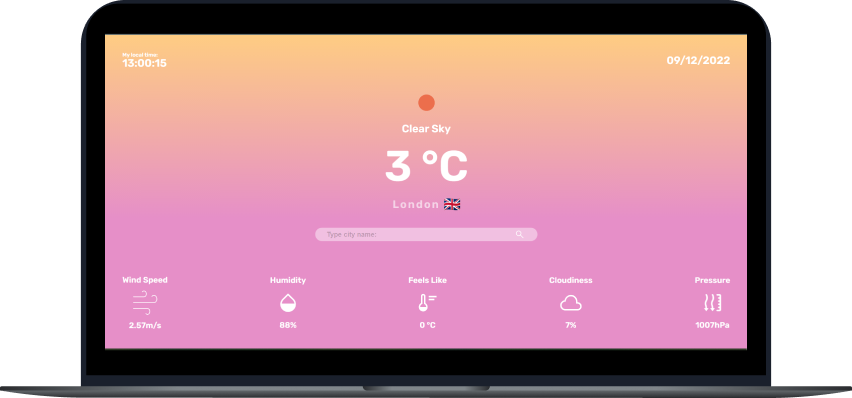
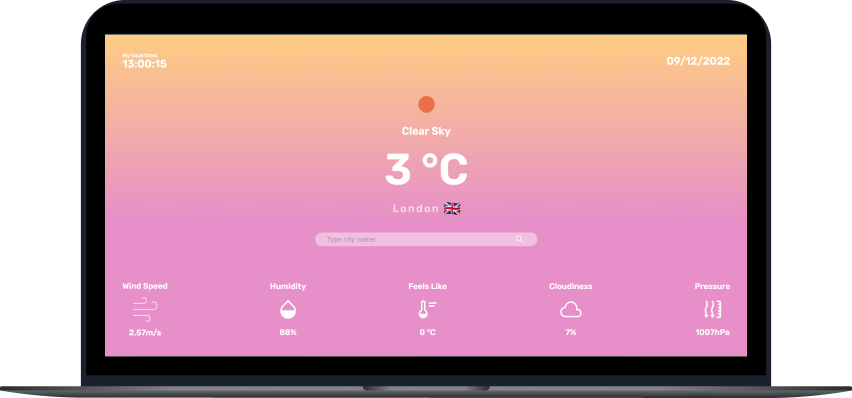
feat(styles): make background colour for weather card change after an interval

diff --git a/src/components/projects/WeatherApp.js b/src/components/projects/WeatherApp.js
@@ -1,6 +1,8 @@
 import BlackArrow from '../../images/projects/black-arrow.svg';
 import WhiteArrow from '../../images/projects/white-arrow.svg';
 import LaptopMorning from '../../images/projects/weather/laptop-morning.png';
+import { useEffect } from 'react';
+// import { useEffect } from 'react';
 // import LaptopAfternoon from '../../images/projects/weather/laptop-afternoon.png';
 // import LaptopEvening from '../../images/projects/weather/laptop-evening.png';
 // import LaptopNight from '../../images/projects/weather/laptop-night.png';
@@ -17,8 +19,38 @@ import LaptopMorning from '../../images/projects/weather/laptop-morning.png';
 //   "linear-gradient(180deg, rgba(42, 49, 64, 0.55) 0%, #484A4E 58.56%)";
 
 const WeatherApp = () => {
+  useEffect(() => {
+    const weatherAppCard = document.querySelector('.weather-app-card');
+
+    const bgInterval = setInterval(() => {
+      if (weatherAppCard.classList.contains('bg-morning')) {
+        // To Afternoon
+        weatherAppCard.classList.remove('bg-morning');
+        weatherAppCard.classList.add('bg-afternoon');
+      } else if (weatherAppCard.classList.contains('bg-afternoon')) {
+        // To Evening
+        weatherAppCard.classList.remove('bg-afternoon');
+        weatherAppCard.classList.add('bg-evening');
+      } else if (weatherAppCard.classList.contains('bg-evening')) {
+        // To Night
+        weatherAppCard.classList.remove('bg-evening');
+        weatherAppCard.classList.add('bg-night');
+      } else if (weatherAppCard.classList.contains('bg-night')) {
+        // To Midnight
+        weatherAppCard.classList.remove('bg-night');
+        weatherAppCard.classList.add('bg-midnight');
+      } else if (weatherAppCard.classList.contains('bg-midnight')) {
+        // To Morning
+        weatherAppCard.classList.remove('bg-midnight');
+        weatherAppCard.classList.add('bg-morning');
+      }
+    }, 2000);
+
+    return () => clearInterval(bgInterval);
+  }, []);
+  
   return (
-    <div className="card weather-app-card">
+    <div className="card weather-app-card bg-morning" >
       <h2>Weather App</h2>
       <p>Get the forecast, make a plan, and seize the day.</p>
       <div className="links-container">

diff --git a/src/styles/css/main.css b/src/styles/css/main.css
@@ -555,8 +555,8 @@ header button {
   }
 }
 .weather-app-card {
-  background: linear-gradient(180deg, #00B3EC 45.31%, #1A9EC8 100%);
   color: white;
+  transition: 1s ease-in-out;
 }
 .weather-app-card .links-container .visit-website-link {
   color: #444444;
@@ -583,6 +583,26 @@ header button {
     width: auto;
   }
 }
+.bg-morning {
+  background-color: #00B3EC;
+}
+
+.bg-afternoon {
+  background-color: #80A9F4;
+}
+
+.bg-evening {
+  background-color: rgba(254, 185, 83, 0.72);
+}
+
+.bg-night {
+  background-color: rgba(10, 41, 109, 0.55);
+}
+
+.bg-midnight {
+  background: rgba(42, 49, 64, 0.55);
+}
+
 .projects-grid-container {
   display: flex;
   flex-direction: column;
@@ -619,6 +639,7 @@ header button {
   .projects-grid-container {
     display: grid;
     grid-template-columns: 50% 50%;
+    grid-auto-rows: 1fr;
     gap: 16px;
     padding-left: 24px;
     padding-right: 24px;

diff --git a/src/styles/scss/components/projects/_weatherapp.scss b/src/styles/scss/components/projects/_weatherapp.scss
@@ -1,6 +1,7 @@
+
 .weather-app-card {
-  background: linear-gradient(180deg, #00B3EC 45.31%, #1A9EC8 100%);
   color: white;
+  transition: 1s ease-in-out;
 
   .links-container {
     .visit-website-link {
@@ -35,3 +36,20 @@
     }
   }
 }
+
+  // BG colours
+  .bg-morning {
+    background-color:#00B3EC;
+  }
+  .bg-afternoon {
+    background-color:#80A9F4;
+  }
+  .bg-evening {
+    background-color: rgba(254, 185, 83, 0.72);
+  }
+  .bg-night {
+    background-color:rgba(10, 41, 109, 0.55);
+  }
+  .bg-midnight {
+    background:rgba(42, 49, 64, 0.55);
+  }
